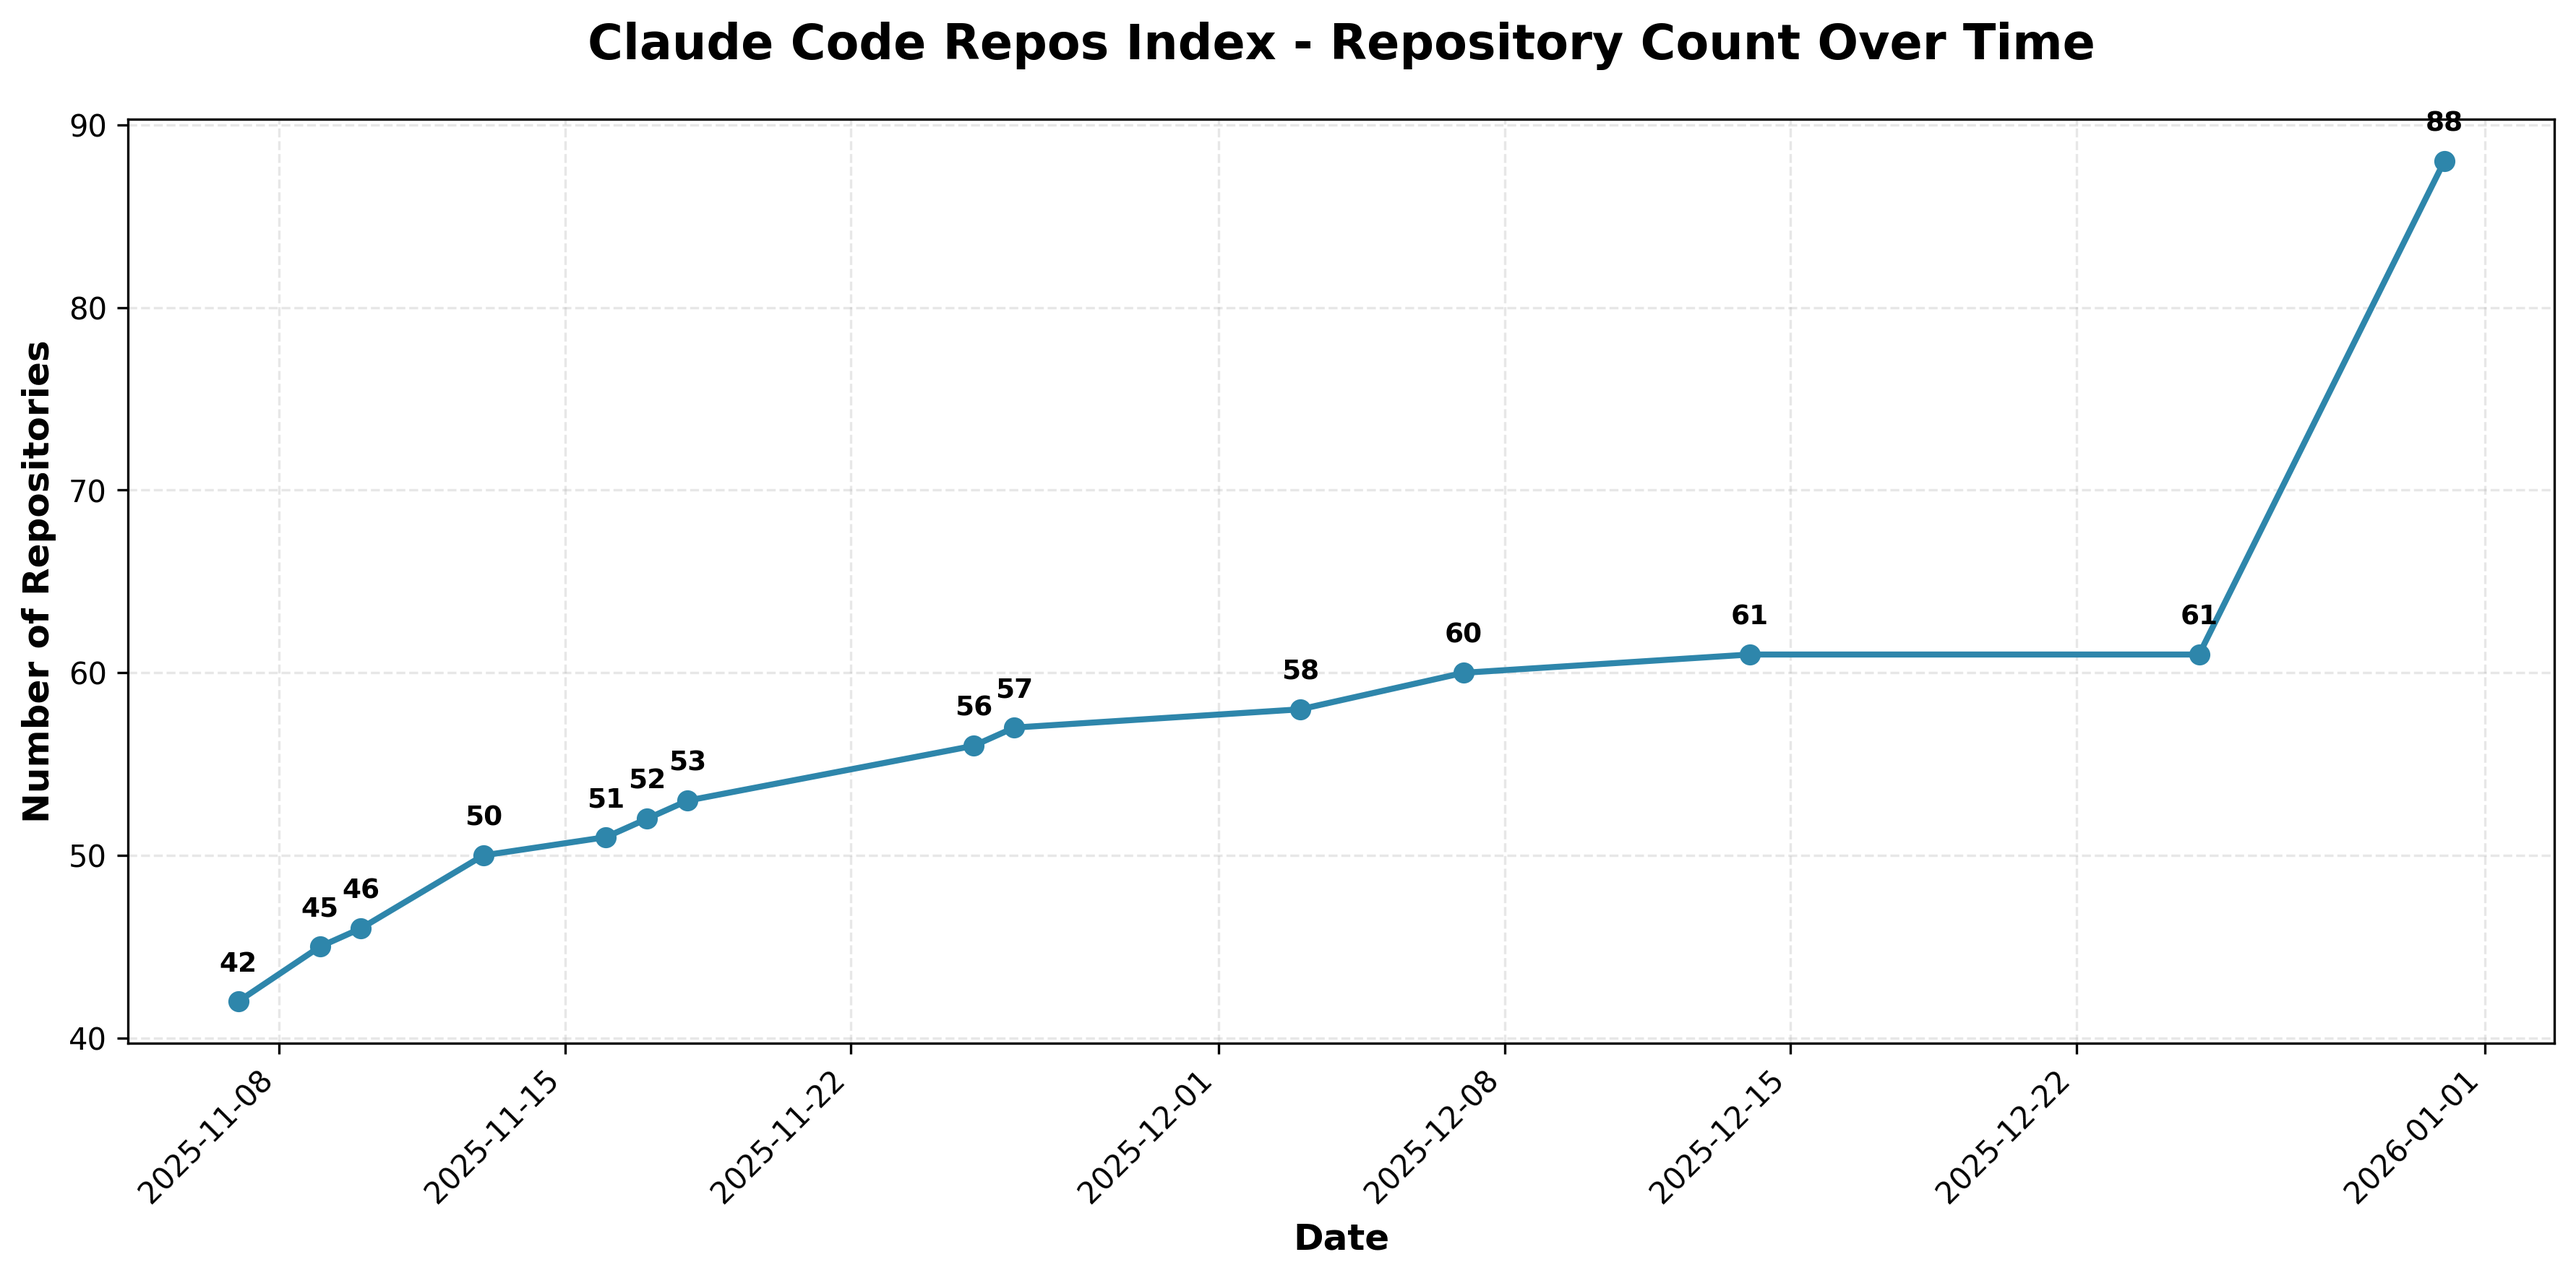
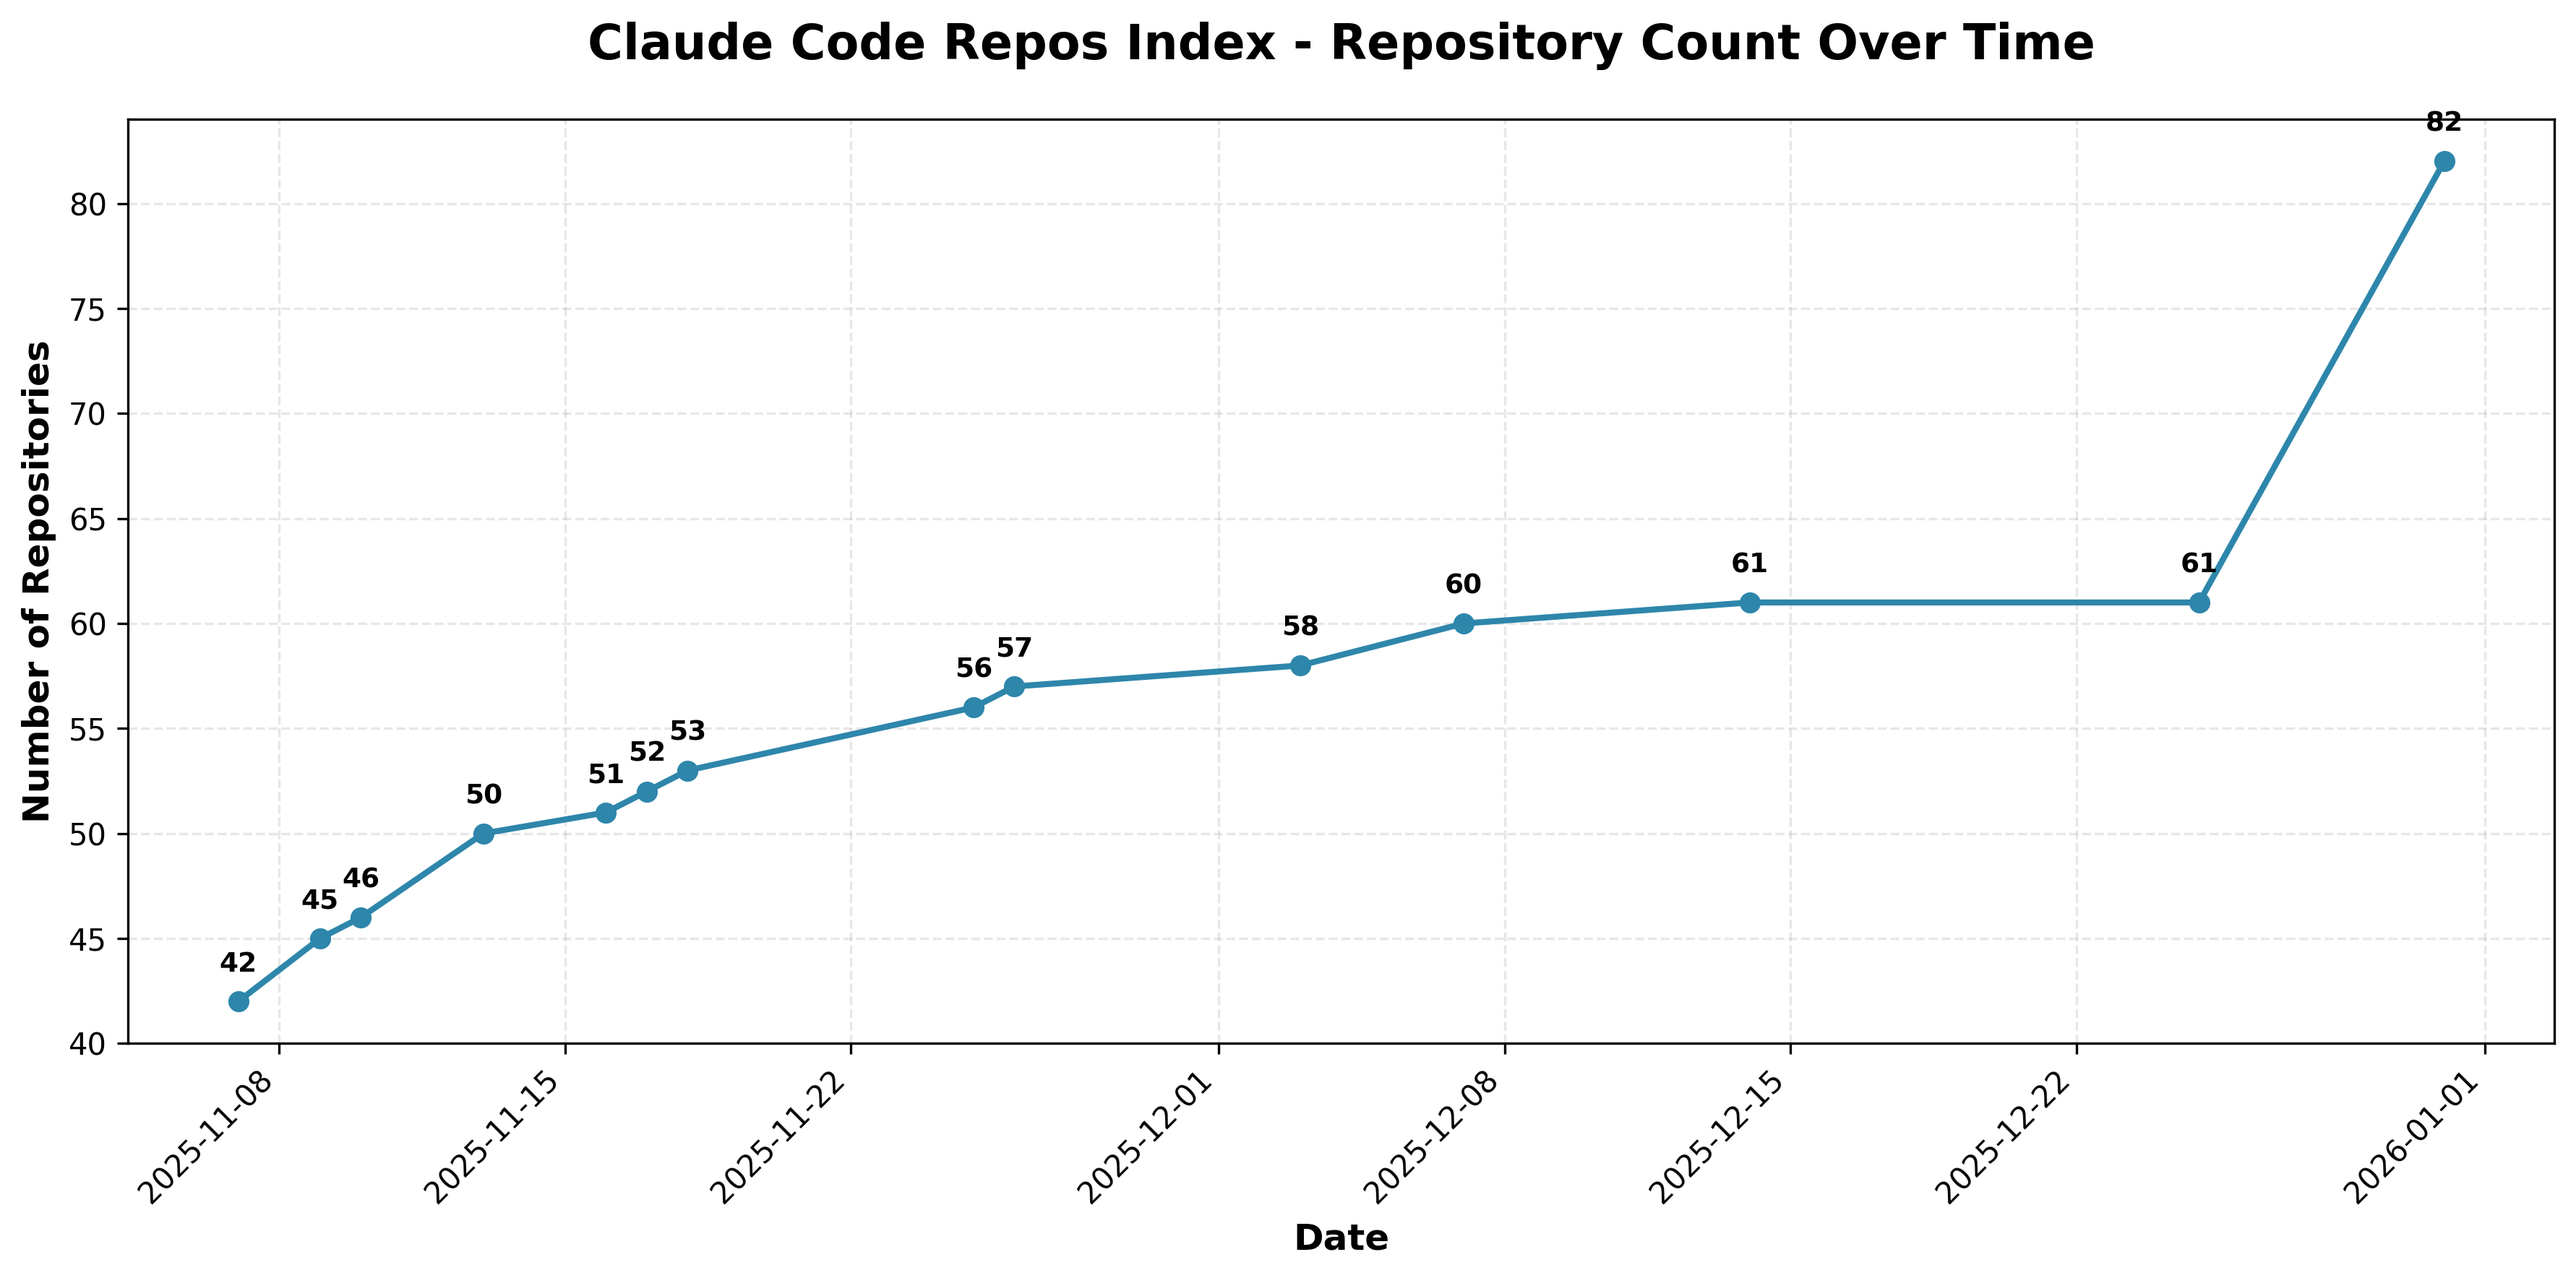
Remove non-Claude-Code-specific repos from index
Removed general-purpose plugins that aren't specifically about Claude Code
workflows/patterns:
- Gemini Transcription MCP (general MCP)
- Conda Management Plugin (general utility)
- Debugging Plugin (general utility)
- Docker Assist Plugin (general utility)
- General Dev Plugin (general utility)
- Server Management Plugin (general utility)

Kept Claude Code-specific additions:
- Claude Business Idea Evaluator (Claude workspace pattern)
- Claude Code Plugin (meta-plugin for CC configuration)

🤖 Generated with [Claude Code](https://claude.ai/code)

diff --git a/README.md b/README.md
@@ -473,13 +473,6 @@ Guideline snippet for adding determinative guidance to Claude Code on how to use
 
 ---
 
-### Gemini Transcription MCP
-[![View Repo](https://img.shields.io/badge/View%20Repo-blue?style=flat-square&logo=github)](https://github.com/danielrosehill/Gemini-Transcription-MCP)
-
-MCP server leveraging Google's Gemini multimodal API to transcribe audio files with integrated post-processing. Offers five transcription modes (edited, raw, custom, formatted, and large-file optimized) for converting voice notes into structured text suitable for repository documentation and AI-assisted development workflows.
-
----
-
 ### MCPM Claude Code Docs
 [![View Repo](https://img.shields.io/badge/View%20Repo-blue?style=flat-square&logo=github)](https://github.com/danielrosehill/MCPM-Claude-Code-Docs)
 
@@ -526,45 +519,10 @@ Claude plugin for cleaning up repositories by removing Claude-related artifacts 
 
 ---
 
-### Conda Management Plugin
-[![View Repo](https://img.shields.io/badge/View%20Repo-blue?style=flat-square&logo=github)](https://github.com/danielrosehill/conda-management-plugin)
-
-Claude Code plugin providing slash commands and agents for managing Conda environments, Python packages, and virtual environment workflows with streamlined environment creation, package installation, and dependency management.
-
----
-
-### Debugging Plugin
-[![View Repo](https://img.shields.io/badge/View%20Repo-blue?style=flat-square&logo=github)](https://github.com/danielrosehill/debugging-plugin)
-
-Claude Code plugin for debugging workflows providing error analysis, troubleshooting assistance, and diagnostic tools through dedicated slash commands and specialized agents.
-
----
-
-### Docker Assist Plugin
-[![View Repo](https://img.shields.io/badge/View%20Repo-blue?style=flat-square&logo=github)](https://github.com/danielrosehill/docker-asist-plugin)
-
-Claude Code plugin enabling Docker container management and troubleshooting through integrated slash commands and AI agents for containerization workflows.
-
----
-
-### General Dev Plugin
-[![View Repo](https://img.shields.io/badge/View%20Repo-blue?style=flat-square&logo=github)](https://github.com/danielrosehill/general-dev-plugin)
-
-Claude Code plugin extending development capabilities with slash commands and agents for code generation, refactoring, and general programming assistance workflows.
-
----
-
 ### Make Agent Friendly
 [![View Repo](https://img.shields.io/badge/View%20Repo-blue?style=flat-square&logo=github)](https://github.com/danielrosehill/Make-Agent-Friendly)
 
 Claude Code plugin that prepares human-developed codebases for agentic development by analyzing structure, asking clarifying questions, restructuring folders for agent navigability, creating CLAUDE.md documentation and /context/ directories, and validating changes before committing.
-
----
-
-### Server Management Plugin
-[![View Repo](https://img.shields.io/badge/View%20Repo-blue?style=flat-square&logo=github)](https://github.com/danielrosehill/server-management-plugin)
-
-Claude Code plugin for server infrastructure management providing slash commands and AI agents for monitoring, deployment, and server administration workflows.
 
 ---
 
